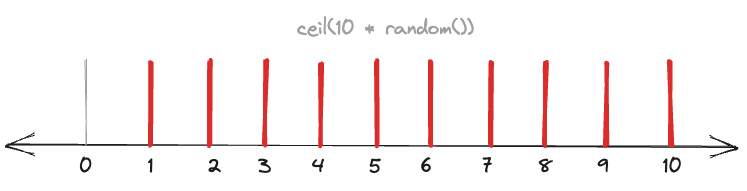
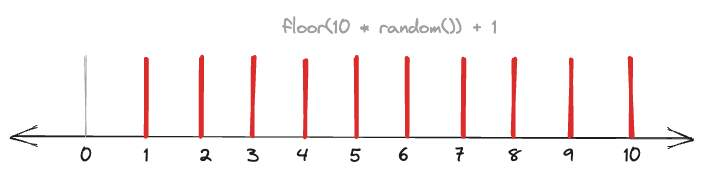
floor/ceil

diff --git a/randomfuncs/index.md b/randomfuncs/index.md
@@ -52,12 +52,12 @@ SELECT 10 * random() FROM generate_series(1, 5)
 5.5245437635689125
 ```
 
-Then, if you push every one of those numbers up to the nearest integer using `ceil()` you'll end up with a random integer between 1 and 10. 
+Then, if you push every one of those numbers down to the nearest integer using `floor()` you'll end up with a random integer between 0 and 9. 
 
-![](integer_random_10.jpg)
+![](integer_random_9.jpg)
 
 ```sql
-SELECT ceil(10 * random()) FROM generate_series(1, 5)
+SELECT floor(10 * random()) FROM generate_series(1, 5)
 ```
 
 ```
@@ -68,13 +68,13 @@ SELECT ceil(10 * random()) FROM generate_series(1, 5)
 6
 ```
 
-If you wanted a randeom integer between 0 and 9, you could do the same thing, but pushing the floating numbers **down** to the next lowest integer using `floor()`.
+If you wanted a random integer between 1 and 10, you just need to add 1 to the zero-base number.
 
-![](integer_random_9.jpg)
+![](integer_random_10.jpg)
 
 
 ```sql
-SELECT floor(10 * random()) FROM generate_series(1, 5)
+SELECT floor(10 * random()) + 1 FROM generate_series(1, 5)
 ```
 
 ```
@@ -118,7 +118,7 @@ But if you want to put your finger on the scales, you can use the `setseed()` fu
 
 Some times the things you are trying to do randomly aren't numbers. How do you get a random entry out of a string? Or a random row from a table?
 
-We already saw how to get one-based integers from `random()` and we can apply that technique to the problem of pulling an entry from an array.
+We already saw how to get one-based integers from `random()` and we can apply that technique to the problem of pulling an entry from an array (since PostgreSQL array access is one-based).
 
 ```sql
 WITH f AS (
@@ -129,14 +129,16 @@ WITH f AS (
         'pear', 
         'peach'] AS fruits
 )
-SELECT fruits[ceil(array_length(fruits,1) * random())] AS snack
+SELECT fruits[floor(array_length(fruits,1) * random())+1] AS snack
 FROM f;
 ```
+
 ```
  snack 
 -------
  peach
 ```
+
 Getting a random row involves some tradeoffs and thinking. For a random value from a small table, the naive way to get a single random value is this.
 
 ```sql
